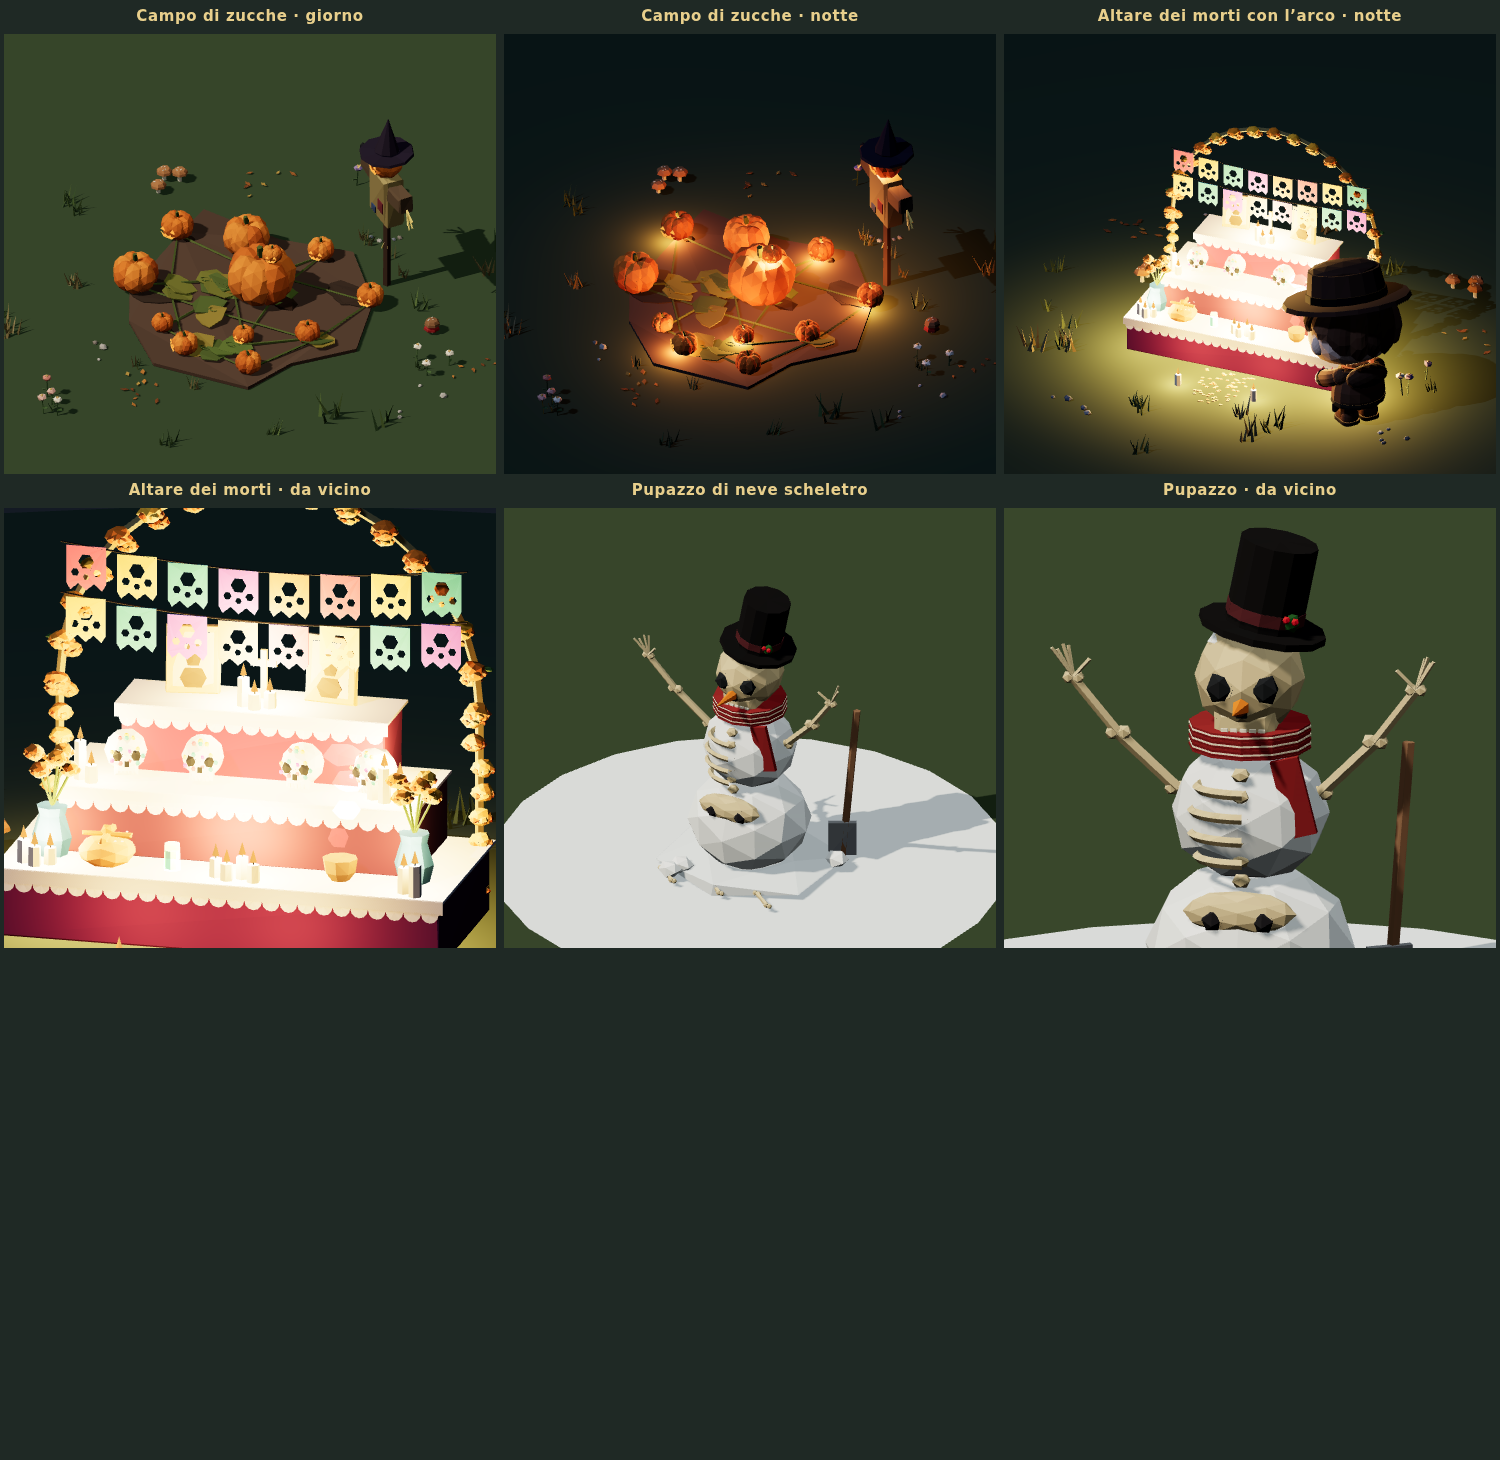
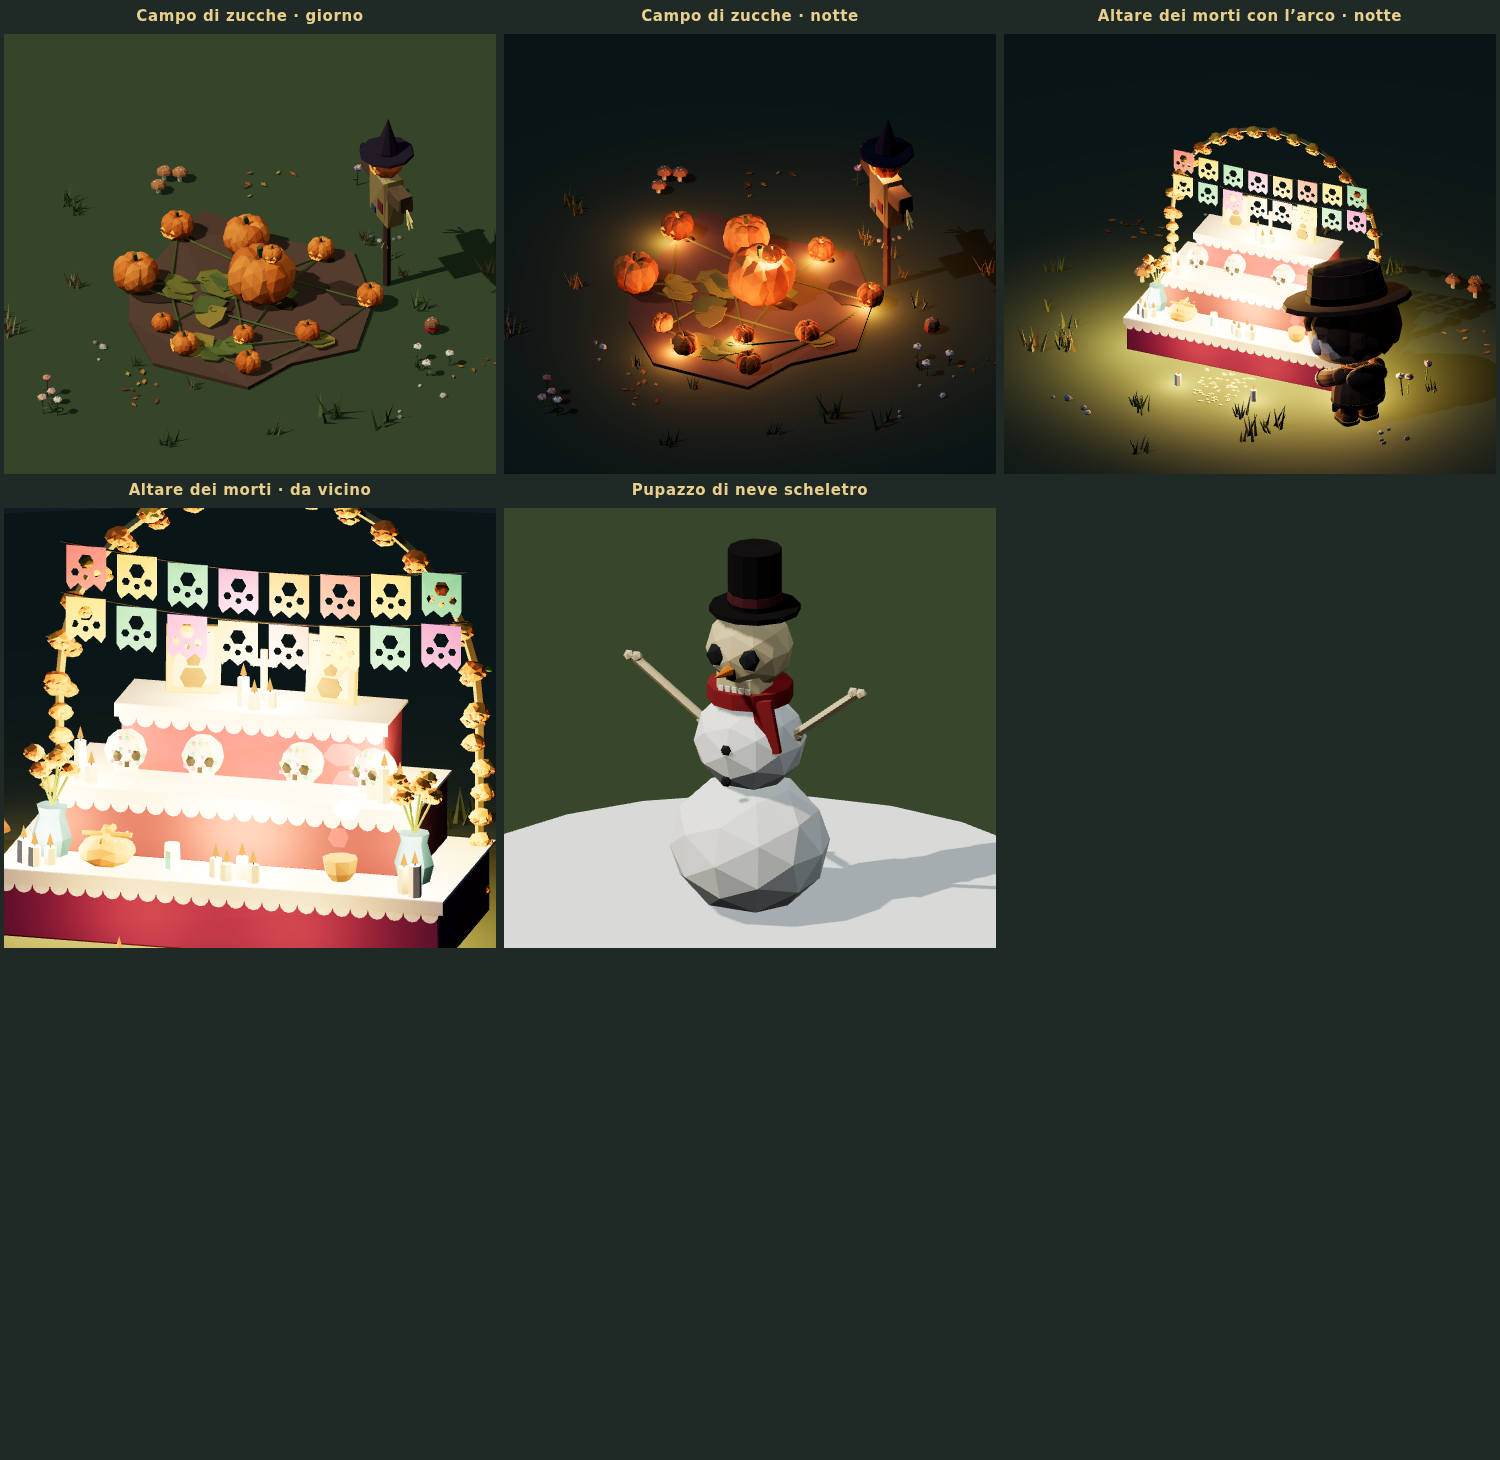
Anteprima: gazebo e campana senza lapidi, niente ossario, strega con l'incantesimo, pupazzo semplificato
- Gazebo e Campana delle anime senza lapidi accanto (si confondevano con quelle vere).
- Tolto l'Ossario.
- Strega: al posto della pozione (che nel gioco non vale nulla) un
  incantesimo al giorno che pulisce le cose sporche vicine; etichetta con la scopa.
- Pupazzo di neve scheletro: due palle di neve e un teschio col cilindro.

Claude-Session: https://claude.ai/code/session_01U6u5RojYrwYjZd8sSRU7em

Changed region(s): [[0.3373, 0.3082, 1.0, 0.6473], [0.3373, 0.6164, 0.368, 0.6473]]

diff --git a/Prototype-3d/src/render/lowpoly/newItems2.ts b/Prototype-3d/src/render/lowpoly/newItems2.ts
@@ -223,66 +223,6 @@ export function soulBellLP(lit = true): LPModel {
   return lp.build();
 }
 
-/**
- * Ossario (3×2): ingresso di una cappella mezza interrata in una collinetta
- * erbosa, con la facciata di teschi e ossa impilati nelle nicchie, arco con
- * il teschio in chiave, scala che scende a un cancello di ferro, due torce.
- */
-export function ossuaryLP(lit = true): LPModel {
-  const lp = new LP('new2:ossuary');
-  const r = lp.rng;
-  // collinetta erbosa dietro e ai lati
-  lp.blob(0, 0.0, -0.35, 1.5, 0.75, 0.75, LPC.grass, { detail: 1, vary: 0.08, jitter: 0.04 });
-  for (let i = 0; i < 8; i++) grassTuft(lp, r.range(-1.3, 1.3), r.range(-0.8, -0.1), 1.1);
-  // facciata di pietra con il frontone a punta
-  const F = new THREE.Shape();
-  F.moveTo(-0.95, 0); F.lineTo(0.95, 0); F.lineTo(0.95, 1.05); F.lineTo(0, 1.55); F.lineTo(-0.95, 1.05); F.closePath();
-  const door = new THREE.Path(); door.moveTo(-0.32, 0.0); door.lineTo(-0.32, 0.62); door.absarc(0, 0.62, 0.32, Math.PI, 0, true); door.lineTo(0.32, 0.0); door.lineTo(-0.32, 0.0);
-  F.holes.push(door);
-  lp.push([0, 0, 0.1]).extrude(F, 0.22, LPC.stoneWarm, { bevel: 0.015, vary: 0.07, curve: 10 }).pop();
-  // cornice dell'arco e teschio in chiave
-  lp.push([0, 0.62, 0.22]).add(new THREE.TorusGeometry(0.36, 0.05, 5, 14, Math.PI), LPC.stoneLight, { jitter: 0.003 }).pop();
-  skull(lp, 0, 0.92, 0.2, 0.9);
-  // nicchie ai lati: teschi impilati e ossa incrociate
-  for (const s of [-1, 1]) {
-    lp.box(s * 0.62, 0.1, 0.22, 0.42, 0.85, 0.04, '#2a2624', { jitter: 0 });
-    for (let row = 0; row < 3; row++) for (let k = 0; k < 2; k++) skull(lp, s * 0.62 + (k - 0.5) * 0.17, 0.14 + row * 0.27, 0.2, 0.7, r.pick([LPC.bone, '#d9cfb5', '#bfb59e']));
-    for (const a of [-0.6, 0.6]) lp.push([s * 0.62, 1.12, 0.24], 0, 0, a).box(0, -0.16, 0, 0.035, 0.32, 0.035, LPC.bone, { jitter: 0 }).pop();
-  }
-  // iscrizione MEMENTO MORI (righe incise) e cornicione
-  lp.box(0, 1.2, 0.215, 0.6, 0.12, 0.02, LPC.stoneLight, { jitter: 0 });
-  lp.box(0, 1.25, 0.23, 0.48, 0.02, 0.004, LPC.engrave, { jitter: 0 });
-  // scala che scende e cancello di ferro socchiuso, buio dentro con due occhi
-  lp.box(0, 0, -0.1, 0.62, 0.02, 0.4, '#141416', { jitter: 0 });
-  for (let k = 0; k < 3; k++) lp.box(0, -0.02 - k * 0.08, 0.32 - k * 0.12, 0.6, 0.04, 0.14, LPC.stone, { bevel: 0.008 });
-  for (const s of [-1, 1]) lp.blob(s * 0.04, 0.42, -0.2, 0.018, 0.012, 0.006, lit ? '#ffd36a' : '#2a2420', lit ? { bucket: 'glow', jitter: 0 } : { jitter: 0 });
-  lp.push([0.0, 0.0, 0.2], -0.5);
-  for (let k = 0; k < 5; k++) lp.box(0.03 + k * 0.06, 0, 0, 0.018, 0.86, 0.018, LPC.iron, { jitter: 0 });
-  for (const y of [0.15, 0.7]) lp.box(0.15, y, 0, 0.3, 0.03, 0.02, LPC.iron, { jitter: 0 });
-  lp.pop();
-  // torce ai lati e candele sui gradini
-  for (const s of [-1, 1]) {
-    lp.box(s * 1.08, 0, 0.35, 0.16, 0.08, 0.16, LPC.stoneDark, { bevel: 0.01 });
-    lp.cyl(s * 1.08, 0.08, 0.35, 0.03, 0.025, 0.85, 5, LPC.woodDark, { jitter: 0 });
-    lp.cyl(s * 1.08, 0.93, 0.35, 0.06, 0.04, 0.08, 6, LPC.iron, { jitter: 0 });
-    if (lit) { lp.cyl(s * 1.08, 1.01, 0.35, 0.05, 0.0, 0.16, 5, LPC.flame, { bucket: 'glow', jitter: 0.01 }); lp.light(s * 1.08, 1.1, 0.4, LPC.flame, 0.7, 3.5, 0.45, 0.8); }
-  }
-  ivyCurtain(lp, -0.95, 1.05, 0.33);
-  moss(lp, 0.5, 1.3, 0.23, 0.08);
-  for (let i = 0; i < 4; i++) candle(lp, r.range(-0.25, 0.25), 0.0, 0.5 + r.next() * 0.15, lit, 0.06 + r.next() * 0.06);
-  return lp.build();
-}
-
-/** Edera che scende da un bordo (x0 → verso il centro). */
-function ivyCurtain(lp: LP, x0: number, y0: number, z: number) {
-  const r = lp.rng;
-  for (let k = 0; k < 4; k++) {
-    const x = x0 + 0.12 + k * 0.1, len = 0.3 + r.next() * 0.5;
-    tube(lp, [x, y0, z], [x + r.range(-0.05, 0.05), y0 - len, z], 0.008, '#3e4a2c', 3);
-    for (let j = 0; j < 5; j++) lp.push([x, y0 - (j / 5) * len, z + 0.01], r.range(0, 6), 0, 0).blob(0.02, 0, 0, 0.03, 0.03, 0.008, j % 2 ? LPC.leaf : '#56703d', { jitter: 0.004 }).pop();
-  }
-}
-
 // ── Ambiente ────────────────────────────────────────────────────────────
 
 /** Mano di zombie con la manica strappata (verde) o di scheletro (ossa), che emerge dall'acqua. */
@@ -944,53 +884,22 @@ export function ofrenda2LP(lit = true): LPModel {
 }
 
 /**
- * Pupazzo di neve scheletro (1×1, dicembre): la testa è un teschio con il
- * cilindro e la carota infilata nel naso; dalla palla di mezzo spunta la
- * gabbia toracica, sotto il bacino; braccia d'ossa con le mani a cinque dita.
+ * Pupazzo di neve scheletro (1×1, dicembre): due palle di neve e sopra un
+ * teschio col cilindro, sciarpa, braccia d'osso e carota nel naso. Pochi pezzi.
  */
 export function skeletonSnowman2LP(): LPModel {
   const lp = new LP('new2:snowman');
-  const SN = '#e8eef0', BONE = '#cdbb94';
-  lp.blob(0, 0.03, 0, 0.45, 0.05, 0.42, '#dfe8ec', { jitter: 0.02 });
-  for (let i = 0; i < 4; i++) lp.blob(lp.rng.range(-0.4, 0.4), 0.06, lp.rng.range(-0.3, 0.4), 0.06, 0.04, 0.05, SN, { jitter: 0.01 }); // grumi di neve
-  // palla bassa con il bacino che sporge
-  lp.blob(0, 0.24, 0, 0.29, 0.24, 0.28, SN, { detail: 1, jitter: 0.012 });
-  lp.push([0, 0.38, 0.2], 0, -0.2);
-  lp.blob(0, 0, 0, 0.16, 0.06, 0.05, BONE, { detail: 1, jitter: 0.004 });
-  for (const s of [-1, 1]) lp.blob(s * 0.07, -0.02, 0.02, 0.035, 0.035, 0.035, '#2a2a30', { jitter: 0 });
-  lp.pop();
-  // palla di mezzo, con la colonna e la gabbia toracica che escono dalla neve
-  lp.blob(0, 0.62, 0, 0.22, 0.2, 0.21, SN, { detail: 1, jitter: 0.01 });
-  for (let k = 0; k < 6; k++) lp.blob(0, 0.46 + k * 0.06, 0.16 + Math.sin(k * 0.5) * 0.02, 0.028, 0.022, 0.026, BONE, { jitter: 0 });
-  for (let k = 0; k < 4; k++) {
-    lp.push([0, 0.52 + k * 0.065, 0.13], 0, 0, 0, [1, 1, 0.7]);
-    lp.add(new THREE.TorusGeometry(0.15 - Math.abs(k - 1.5) * 0.015, 0.014, 4, 14, Math.PI * 0.95).rotateX(Math.PI / 2).rotateY(-Math.PI / 2 - Math.PI * 0.475 + Math.PI / 2), BONE, { jitter: 0 });
-    lp.pop();
-  }
-  // braccia d'osso con le mani scheletriche
-  for (const s of [-1, 1]) {
-    boneStick(lp, [s * 0.2, 0.68, 0.02], [s * 0.36, 0.84, 0.06], 0.018, BONE);
-    boneStick(lp, [s * 0.36, 0.84, 0.06], [s * 0.48, 1.0, 0.1], 0.015, BONE);
-    for (let f = 0; f < 4; f++) tube(lp, [s * 0.48, 1.0, 0.1], [s * (0.5 + f * 0.012), 1.08 + (f % 2) * 0.01, 0.1 + (f - 1.5) * 0.025], 0.006, BONE, 3);
-    tube(lp, [s * 0.48, 1.0, 0.1], [s * 0.43, 1.06, 0.13], 0.007, BONE, 3);
-  }
-  // testa: grande teschio con il cilindro, la sciarpa e la carota nel naso
-  skull(lp, 0, 0.84, 0.0, 1.55, BONE);
-  lp.blob(0, 1.1, -0.01, 0.13, 0.03, 0.12, SN, { jitter: 0.01 }); // neve sul cranio
-  lp.push([0, 0.95, 0.17], 0, Math.PI / 2 - 0.1).cyl(0, 0, 0, 0.025, 0.0, 0.16, 6, '#e07a1a', { jitter: 0 }).pop();
-  lp.cyl(0, 0.8, 0, 0.17, 0.17, 0.07, 12, '#8e2f2a', { jitter: 0 });
-  for (let k = 0; k < 6; k++) lp.cyl(0, 0.8 + k * 0.012, 0, 0.172, 0.172, 0.005, 12, k % 2 ? '#e8dcc0' : '#8e2f2a', { jitter: 0 });
-  lp.push([0.12, 0.78, 0.13], 0, 0, 0.25).box(0, -0.2, 0, 0.08, 0.22, 0.02, '#8e2f2a', { jitter: 0 }).pop();
-  lp.push([0.03, 1.12, -0.02], 0, 0, -0.2);
-  lp.cyl(0, 0, 0, 0.18, 0.18, 0.02, 12, '#141418', { jitter: 0 });
-  lp.cyl(0, 0.02, 0, 0.11, 0.11, 0.24, 12, '#141418', { jitter: 0 });
-  lp.cyl(0, 0.04, 0, 0.112, 0.112, 0.035, 12, '#5a2a30', { jitter: 0 });
-  lp.blob(0.08, 0.06, 0.07, 0.03, 0.03, 0.02, '#2a5a2a', { jitter: 0 }); // rametto di agrifoglio
-  for (const dx of [-0.01, 0.015]) lp.blob(0.08 + dx, 0.07, 0.09, 0.012, 0.012, 0.012, '#c02a2a', { jitter: 0 });
-  lp.pop();
-  // ossicini sparsi e una pala piantata nella neve
-  for (let i = 0; i < 3; i++) boneStick(lp, [-0.3 + i * 0.25, 0.04, 0.3], [-0.2 + i * 0.25, 0.04, 0.38], 0.01, BONE);
-  tube(lp, [0.35, 0, -0.25], [0.4, 0.75, -0.3], 0.018, LPC.wood, 5);
-  lp.push([0.35, 0.02, -0.25], 0.5, 0.05).box(0, 0, 0, 0.13, 0.17, 0.02, '#8d9196', { jitter: 0 }).pop();
+  const SN = '#e8eef0', BONE = '#d2c3a0';
+  lp.blob(0, 0.26, 0, 0.3, 0.26, 0.3, SN, { detail: 1, jitter: 0.006, vary: 0.03 });
+  lp.blob(0, 0.66, 0, 0.21, 0.19, 0.21, SN, { detail: 1, jitter: 0.005, vary: 0.03 });
+  for (const y of [0.56, 0.68]) lp.blob(0, y, 0.205, 0.022, 0.022, 0.012, '#2a2a30', { jitter: 0 }); // bottoni di carbone
+  for (const s of [-1, 1]) boneStick(lp, [s * 0.18, 0.7, 0], [s * 0.46, 0.92, 0.04], 0.018, BONE); // braccia d'osso
+  lp.cyl(0, 0.82, 0, 0.16, 0.16, 0.06, 12, '#8e2f2a', { jitter: 0 }); // sciarpa
+  lp.push([0.11, 0.84, 0.12], 0, 0, 0.2).box(0, -0.18, 0, 0.08, 0.2, 0.02, '#8e2f2a', { jitter: 0 }).pop();
+  skull(lp, 0, 0.86, 0, 1.6, BONE);
+  lp.push([0, 0.98, 0.18], 0, Math.PI / 2 - 0.1).cyl(0, 0, 0, 0.022, 0.0, 0.13, 6, '#e07a1a', { jitter: 0 }).pop(); // carota
+  lp.cyl(0.02, 1.16, 0, 0.17, 0.17, 0.02, 12, '#141418', { jitter: 0 }); // cilindro
+  lp.cyl(0.02, 1.18, 0, 0.1, 0.1, 0.22, 12, '#141418', { jitter: 0 });
+  lp.cyl(0.02, 1.2, 0, 0.102, 0.102, 0.035, 12, '#5a2a30', { jitter: 0 });
   return lp.build();
 }

diff --git a/Prototype-3d/src/proto/items.ts b/Prototype-3d/src/proto/items.ts
@@ -10,7 +10,7 @@ import * as N from '../render/lowpoly/newItems.ts';
 import * as M from '../render/lowpoly/newItems2.ts';
 import { LP_SCENERY } from '../render/lowpoly/index.ts';
 import { lowpolyGrave } from '../render/lowpoly/graves.ts';
-import { iconUrl } from '../ui/icons.ts';
+import { drawIcon, iconUrl } from '../ui/icons.ts';
 import { animateRig, buildRig, rigLightPos, type CharacterKind, type Pose } from '../view/characters.ts';
 import { assemble, handPos, headAt, headCenter, headFront, humanSpec, onSkin, HUMAN_PIVOTS, DEG, O } from '../render/lowpoly/v2/custode.ts';
 import type { LP } from '../render/lowpoly/kit.ts';
@@ -204,7 +204,7 @@ function lawn(r0: number, r1: number, n: number, seed: number): THREE.Group {
 const grave = (type: Parameters<typeof lowpolyGrave>[0], at: [number, number, number], yaw = 0, state: Parameters<typeof lowpolyGrave>[1] = 'clean') => inst(lowpolyGrave(type, state, 3), at, yaw);
 
 function gazebo2(night: boolean): THREE.Group {
-  const g = group(inst(M.gazeboSpookyLP()), lawn(2.0, 2.9, 22, 3), grave('gothic', [-2.2, 0, 1.2], 0.4), grave('celtic_cross', [2.3, 0, -0.6], -0.5));
+  const g = group(inst(M.gazeboSpookyLP()), lawn(2.0, 2.9, 22, 3));
   if (night) {
     for (const [x, z, f, pose] of [[0.35, 0.2, -2.0, 'cheer'], [-0.25, 0.45, 1.1, 'idle']] as const) { const gh = char('ghost', pose, [x, 0.3, z], f, 1.3); gh.scale.setScalar(0.8); g.add(gh); }
   } else g.add(char('custode', 'idle', [0.6, 0.29, 0.75], 0.4));
@@ -213,7 +213,7 @@ function gazebo2(night: boolean): THREE.Group {
 
 function bellScene(): THREE.Group {
   const c = char('custode', 'idle', [0.62, 0.22, 0.62], -2.3, 0.3, (p) => { p.armL.rotation.x = -2.3; p.armL.rotation.z = -0.2; });
-  return group(inst(M.soulBellLP()), c, lawn(1.1, 2.0, 16, 5), grave('stone_simple', [-1.5, 0, 0.7], 0.3, 'flowers'));
+  return group(inst(M.soulBellLP()), c, lawn(1.1, 2.0, 16, 5));
 }
 
 function vampireDay(): THREE.Group { return group(inst(M.vampireCryptLP(false)), lawn(1.1, 1.9, 14, 8)); }
@@ -239,25 +239,24 @@ function vampire2(): THREE.Group {
   return group(inst(M.vampireCryptLP(true)), v, lawn(1.2, 1.9, 14, 8));
 }
 
-/** Etichetta «pozione pronta» sopra la strega (come gli incassi di bar e orto). */
-function potionBadge(y: number): THREE.Sprite {
-  const c = document.createElement('canvas'); c.width = 192; c.height = 96;
+/** Etichetta «incantesimo pronto» sopra la strega: la scopa che pulisce e le scintille (come gli incassi di bar e orto). */
+function spellBadge(y: number): THREE.Sprite {
+  const c = document.createElement('canvas'); c.width = 96; c.height = 96;
   const g = c.getContext('2d')!;
-  const plate = (inset: number, color: string) => { g.fillStyle = color; g.fillRect(inset + 6, inset, 192 - 2 * (inset + 6), 96 - 2 * inset); g.fillRect(inset, inset + 6, 192 - 2 * inset, 96 - 2 * (inset + 6)); };
-  plate(0, '#07080b'); plate(6, '#c9a25c'); plate(12, '#161920');
-  g.fillStyle = '#6b4a3a'; g.fillRect(70, 22, 22, 12);
-  g.fillStyle = '#9af06a'; g.beginPath(); g.moveTo(66, 36); g.lineTo(96, 36); g.lineTo(108, 72); g.lineTo(54, 72); g.closePath(); g.fill();
-  g.fillStyle = '#e8ffd0'; g.fillRect(64, 54, 8, 8);
-  g.fillStyle = '#f1d39c'; g.font = 'bold 34px system-ui, sans-serif'; g.textBaseline = 'middle'; g.fillText('×2', 116, 50);
-  const t = new THREE.CanvasTexture(c); t.colorSpace = THREE.SRGBColorSpace;
+  const plate = (inset: number, color: string) => { g.fillStyle = color; g.fillRect(inset + 6, inset, 96 - 2 * (inset + 6), 96 - 2 * inset); g.fillRect(inset, inset + 6, 96 - 2 * inset, 96 - 2 * (inset + 6)); };
+  plate(0, '#07080b'); plate(6, '#9a6ad0'); plate(12, '#161920');
+  drawIcon(g, 'broom', 18, 18, 60);
+  g.fillStyle = '#f1d39c';
+  for (const [x, y2] of [[70, 22], [24, 70], [76, 62]]) { g.fillRect(x - 2, y2 - 7, 4, 14); g.fillRect(x - 7, y2 - 2, 14, 4); }
+  const t = new THREE.CanvasTexture(c); t.colorSpace = THREE.SRGBColorSpace; t.magFilter = THREE.NearestFilter;
   const sp = new THREE.Sprite(new THREE.SpriteMaterial({ map: t, depthTest: false, toneMapped: false }));
-  sp.scale.set(0.8, 0.4, 1); sp.position.y = y; sp.renderOrder = 10;
+  sp.scale.set(0.5, 0.5, 1); sp.position.y = y; sp.renderOrder = 10;
   return sp;
 }
 
 function witch2(): THREE.Group {
   const w = witch(); w.position.set(0.85, 0, 0.0); w.rotation.y = -0.65;
-  const b = potionBadge(2.0); b.position.x = 0.25;
+  const b = spellBadge(2.0); b.position.x = 0.25;
   return group(inst(M.witchCornerLP()), w, b, lawn(1.1, 1.8, 12, 4));
 }
 
@@ -387,7 +386,6 @@ const SETS: Record<string, Panel[]> = {
     { title: 'Gazebo delle anime · giorno', yaw: 0.6, zoom: 2.7, center: [0, 1.25, 0], build: () => gazebo2(false) },
     { title: 'Gazebo delle anime · di notte i fantasmi ballano', night: true, dusk: true, yaw: 0.6, zoom: 2.5, center: [0, 1.25, 0], build: () => gazebo2(true) },
     { title: 'Campana delle anime (al posto del campanile)', yaw: 0.5, zoom: 1.75, center: [0, 1.25, 0], build: bellScene },
-    { title: 'Ossario (altra idea)', night: true, dusk: true, yaw: 0.45, zoom: 1.55, center: [0, 0.75, 0], build: () => group(inst(M.ossuaryLP()), lawn(1.6, 2.4, 16, 4)) },
     { title: 'Palude con le mani', yaw: 0.5, pitch: 0.62, zoom: 1.95, center: [0, 0.25, 0], build: () => group(inst(M.swamp2LP()), lawn(2.0, 2.8, 20, 12)) },
     { title: 'Albero dell’altalena', yaw: 0.55, zoom: 1.6, center: [0, 1.25, 0], build: () => group(inst(M.swingTree2LP()), lawn(1.0, 1.8, 14, 13)) },
     { title: 'Cerchio di pietre nella nebbia', night: true, dusk: true, yaw: 0.5, pitch: 0.6, zoom: 1.7, center: [0, 0.4, 0], build: () => group(inst(M.stoneCircleLP()), lawn(1.5, 2.3, 18, 14)) },
@@ -397,7 +395,7 @@ const SETS: Record<string, Panel[]> = {
   '6': [
     { title: 'Vampiro · di giorno dorme nella bara', yaw: 0.5, zoom: 1.55, center: [0, 0.9, 0], build: vampireDay },
     { title: 'Vampiro · di notte esce a passeggiare', night: true, dusk: true, yaw: 0.5, zoom: 1.6, center: [0, 0.95, 0.2], build: vampire2 },
-    { title: 'Strega · la pozione del giorno è pronta', night: true, dusk: true, yaw: 0.5, zoom: 1.45, center: [0, 0.9, 0.1], build: witch2 },
+    { title: 'Strega · l’incantesimo del giorno è pronto', night: true, dusk: true, yaw: 0.5, zoom: 1.45, center: [0, 0.9, 0.1], build: witch2 },
     { title: 'Rifugio dei gatti neri', yaw: 0.55, zoom: 1.3, center: [0, 0.55, 0], build: cats2 },
     { title: 'Scopa volante · a cavalcioni', yaw: 1.15, pitch: 0.42, zoom: 1.15, center: [0, 0.85, -0.1], build: broomScene },
     { title: 'Bastone mistico · attira i fuochi fatui da lontano', night: true, dusk: true, yaw: 0.5, pitch: 0.62, zoom: 1.75, center: [0, 0.5, 0], build: staffScene },
@@ -407,8 +405,7 @@ const SETS: Record<string, Panel[]> = {
     { title: 'Campo di zucche · notte', night: true, dusk: true, yaw: 0.55, pitch: 0.6, zoom: 1.85, center: [0, 0.5, 0], build: patch2 },
     { title: 'Altare dei morti con l’arco · notte', night: true, dusk: true, yaw: 0.4, zoom: 1.85, center: [0, 0.95, 0.2], build: () => ofrenda2(true) },
     { title: 'Altare dei morti · da vicino', night: true, dusk: true, yaw: 0.25, pitch: 0.3, zoom: 0.95, center: [0, 0.85, 0], build: () => ofrenda2(false) },
-    { title: 'Pupazzo di neve scheletro', yaw: 0.5, zoom: 1.0, center: [0, 0.7, 0], build: snowman2 },
-    { title: 'Pupazzo · da vicino', yaw: 0.15, pitch: 0.25, zoom: 0.6, center: [0, 0.85, 0], build: snowman2 },
+    { title: 'Pupazzo di neve scheletro', yaw: 0.45, pitch: 0.35, zoom: 0.8, center: [0, 0.7, 0], build: snowman2 },
   ],
 };
 
